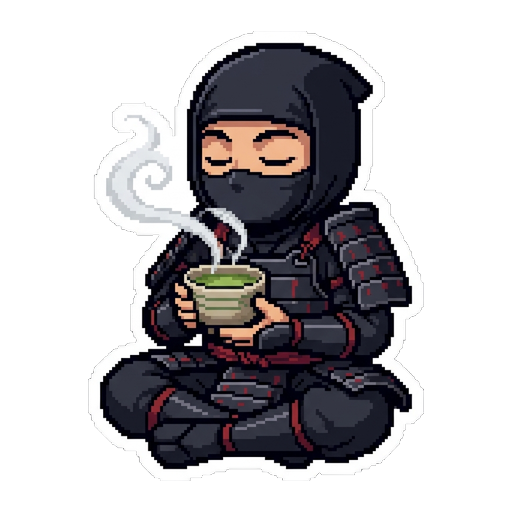
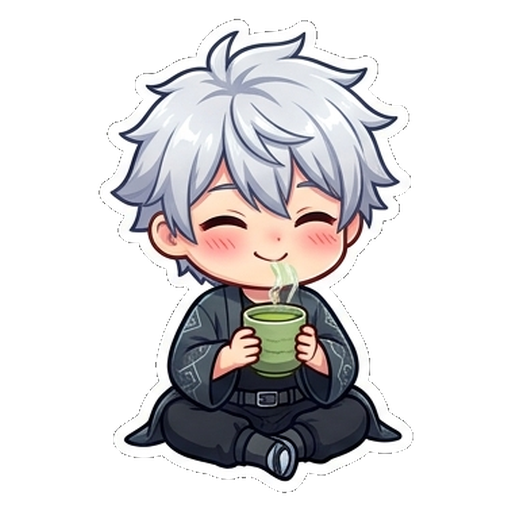
feat(stickers): 28-piece anime twins collection (white-haired boy twin & kunoichi girl) with 14 diverse emotions

diff --git a/src/services/chatBotServisi.js b/src/services/chatBotServisi.js
@@ -25,15 +25,23 @@ const __filename = fileURLToPath(import.meta.url);
 const __dirname = path.dirname(__filename);
 const STICKERS_DIR = path.join(__dirname, '../../assets/stickers');
 const KUNOICHI_DIR = path.join(STICKERS_DIR, 'kunoichi');
+const BOY_DIR = path.join(STICKERS_DIR, 'boy');
 
 const STICKER_DOSYALARI_ERKEK = {
-  savas: path.join(STICKERS_DIR, 'kage_savas.png'),
-  cay: path.join(STICKERS_DIR, 'kage_cay.png'),
-  ofke: path.join(STICKERS_DIR, 'kage_ofke.png'),
-  zafer: path.join(STICKERS_DIR, 'kage_zafer.png'),
-  para: path.join(STICKERS_DIR, 'kage_para.png'),
-  sevgi: path.join(STICKERS_DIR, 'kage_sevgi.png'),
-  dusunce: path.join(STICKERS_DIR, 'kage_dusunce.png')
+  savas: path.join(BOY_DIR, 'kage_savas.png'),
+  cay: path.join(BOY_DIR, 'kage_cay.png'),
+  ofke: path.join(BOY_DIR, 'kage_ofke.png'),
+  zafer: path.join(BOY_DIR, 'kage_zafer.png'),
+  para: path.join(BOY_DIR, 'kage_para.png'),
+  sevgi: path.join(BOY_DIR, 'kage_sevgi.png'),
+  dusunce: path.join(BOY_DIR, 'kage_dusunce.png'),
+  uyku: path.join(BOY_DIR, 'kage_uyku.png'),
+  yemek: path.join(BOY_DIR, 'kage_yemek.png'),
+  sok: path.join(BOY_DIR, 'kage_sok.png'),
+  aglama: path.join(BOY_DIR, 'kage_aglama.png'),
+  selam: path.join(BOY_DIR, 'kage_selam.png'),
+  oyun: path.join(BOY_DIR, 'kage_oyun.png'),
+  utanma: path.join(BOY_DIR, 'kage_utanma.png')
 };
 
 const STICKER_DOSYALARI_KUNOICHI = {
@@ -43,7 +51,14 @@ const STICKER_DOSYALARI_KUNOICHI = {
   zafer: path.join(KUNOICHI_DIR, 'kage_zafer.png'),
   para: path.join(KUNOICHI_DIR, 'kage_para.png'),
   sevgi: path.join(KUNOICHI_DIR, 'kage_sevgi.png'),
-  dusunce: path.join(KUNOICHI_DIR, 'kage_dusunce.png')
+  dusunce: path.join(KUNOICHI_DIR, 'kage_dusunce.png'),
+  uyku: path.join(KUNOICHI_DIR, 'kage_uyku.png'),
+  yemek: path.join(KUNOICHI_DIR, 'kage_yemek.png'),
+  sok: path.join(KUNOICHI_DIR, 'kage_sok.png'),
+  aglama: path.join(KUNOICHI_DIR, 'kage_aglama.png'),
+  selam: path.join(KUNOICHI_DIR, 'kage_selam.png'),
+  oyun: path.join(KUNOICHI_DIR, 'kage_oyun.png'),
+  utanma: path.join(KUNOICHI_DIR, 'kage_utanma.png')
 };
 
 // ==========================================
@@ -358,7 +373,7 @@ GÖREV VE KURALLAR:
 5. Kullanıcı kendisiyle ilgili yeni bir kişisel bilgi verirse (adı, hissi, hobisi, favori mangası vb.), yanıtının EN SONUNA şunu ekle (kullanıcıya gösterilmeyecek, sisteme işlenecek):
 [ÖĞRENİLDİ: <kullanıcı hakkında kalıcı 1 cümlelik gerçek>]
 6. Bu konuşmadaki ruh haline en uygun duyguyu seç ve EN SONA şu etiketi ekle:
-[DUYGU: <savas|cay|ofke|zafer|para|sevgi|dusunce>]
+[DUYGU: <savas|cay|ofke|zafer|para|sevgi|dusunce|uyku|yemek|sok|aglama|selam|oyun|utanma>]
 7. Yanıtın 1-3 paragraf arasında akıcı, doğal ve tatmin edici olsun.`;
 
   // Konuşma geçmişini yükle
@@ -386,7 +401,7 @@ GÖREV VE KURALLAR:
     let ogrenilen = null;
 
     // Duygu etiketini yakala
-    const duyguMatch = hamMetin.match(/\[DUYGU:\s*(savas|cay|ofke|zafer|para|sevgi|dusunce)\]/i);
+    const duyguMatch = hamMetin.match(/\[DUYGU:\s*(savas|cay|ofke|zafer|para|sevgi|dusunce|uyku|yemek|sok|aglama|selam|oyun|utanma)\]/i);
     if (duyguMatch) {
       secilenDuygu = duyguMatch[1].toLowerCase();
     }
@@ -533,7 +548,43 @@ export async function chatBotYanitla(mesajMetni, user, guild = null, member = nu
       baslik = isFemale ? '👑 KUNOICHI PİKSEL ÇIKARTMASI • KUNOICHI ZAFERİ' : '👑 KAGE PİKSEL ÇIKARTMASI • ŞOGUN ZAFERİ';
       aciklama = isFemale
         ? `Altın kanzashi çiçeğimiz saçımızda, zafer katanamızın ucunda! Bu kalede sadece en güçlü kunoichiler parlar. 🌸👑`
-        : `Şogun tacı başımızda, zafer katanamızın ucunda! Bu kalede sadece en güçlüler ayakta kalır.`;
+        : `Zafer bizim kılıç kardeşim! Bu kalede sadece en azimli olanlar ayakta kalır. 👑`;
+    } else if (metin.includes('yemek') || metin.includes('ramen') || metin.includes('acıktım') || metin.includes('lezzetli')) {
+      duygu = 'yemek';
+      baslik = isFemale ? '🍜 KUNOICHI PİKSEL ÇIKARTMASI • SICAK RAMEN ZİYAFETİ' : '🍜 KAGE PİKSEL ÇIKARTMASI • SICAK RAMEN ZİYAFETİ';
+      aciklama = isFemale
+        ? `Dumanı tüten sıcacık bir kase ramen ve leziz soya soslu yumurta! 🍜🌸 Yanında matcha çayıyla ziyafet vakti tatlı kunoichi **${userName}**!`
+        : `Dumanı tüten sıcacık bir kase ramen! 🍜 Çubukları hazırla **${userName}**, kılıç bileyenlerin karnı tok olmalı!`;
+    } else if (metin.includes('uyku') || metin.includes('uyu') || metin.includes('yorgun') || metin.includes('geceler')) {
+      duygu = 'uyku';
+      baslik = isFemale ? '💤 KUNOICHI PİKSEL ÇIKARTMASI • TATLI UYKULAR' : '💤 KAGE PİKSEL ÇIKARTMASI • HUZURLU DİNLENME';
+      aciklama = isFemale
+        ? `Göz kapakların ağırlaşıyor tatlı kunoichi **${userName}**... Yumuşacık yastığına sarıl, kılıcını başucuna koy ve tatlı rüyalar gör! 💤🌸`
+        : `Katanayı kınına sok ve dinlen **${userName}**... Yarın fethedilecek yeni zindanlar bizi bekler, iyi uykular! 💤`;
+    } else if (metin.includes('şok') || metin.includes('şaşır') || metin.includes('nası yani') || metin.includes('oha')) {
+      duygu = 'sok';
+      baslik = isFemale ? '😱 KUNOICHI PİKSEL ÇIKARTMASI • BÜYÜK ŞOK' : '😱 KAGE PİKSEL ÇIKARTMASI • BÜYÜK ŞOK';
+      aciklama = isFemale
+        ? `N-Nasıl yani?! Gözlerime inanamıyorum **${userName}**! Bu beklenmedik gelişme karşısında kalbim hızla çarptı! 😱🌸`
+        : `N-Nasıl yani?! Bu beklenmedik hamle gölgelerin efendisini bile hayrete düşürdü! 😱`;
+    } else if (metin.includes('ağla') || metin.includes('üzgün') || metin.includes('gözyaşı')) {
+      duygu = 'aglama';
+      baslik = isFemale ? '😭 KUNOICHI PİKSEL ÇIKARTMASI • DUYGUSAL ANLAR' : '😭 KAGE PİKSEL ÇIKARTMASI • DUYGUSAL ANLAR';
+      aciklama = isFemale
+        ? `Hıhık... Gözlerimden yaşlar sel oldu aktı... Sakın üzülme tatlı kunoichim **${userName}**, gölge kardeşlerin hep yanında! 😭🌸`
+        : `Gözlerim doldu be samuray **${userName}**... Ama samuraylar ağlamaz derler, bu sadece kiraz çiçeği tozu! 😭`;
+    } else if (metin.includes('selam') || metin.includes('merhaba') || metin.includes('günaydın') || metin.includes('yo')) {
+      duygu = 'selam';
+      baslik = isFemale ? '👋 KUNOICHI PİKSEL ÇIKARTMASI • NEŞELİ SELAM' : '👋 KAGE PİKSEL ÇIKARTMASI • DOSTÇA SELAM';
+      aciklama = isFemale
+        ? `Konnichiwaaa! Neşeyle el sallıyorum tatlı kunoichi **${userName}**, kaleme hoş sefalar getirdin! 👋🌸`
+        : `Yo! Selamlar kılıç kardeşim **${userName}**, Kage Kalesi'ne hoş geldin! 👋`;
+    } else if (metin.includes('oyun') || metin.includes('game') || metin.includes('gamer')) {
+      duygu = 'oyun';
+      baslik = isFemale ? '🎮 KUNOICHI PİKSEL ÇIKARTMASI • GAMER MODU' : '🎮 KAGE PİKSEL ÇIKARTMASI • GAMER MODU';
+      aciklama = isFemale
+        ? `Kulaklıkları taktım, oyun kolunu elime aldım! Zindan bossunu tek hamlede indirmeye hazır mısın **${userName}**? 🎮🌸`
+        : `Kulaklıkları taktım, konsolu açtım! Oyunda kimse elimden kurtulamaz kılıç kardeşim **${userName}**! 🎮`;
     } else {
       duygu = 'cay';
       baslik = isFemale ? '🍵 KUNOICHI PİKSEL ÇIKARTMASI • SAKİN ÇAY MOLASI' : '🍵 KAGE PİKSEL ÇIKARTMASI • SAKİN ÇAY MOLASI';

diff --git a/src/services/duyguServisi.js b/src/services/duyguServisi.js
@@ -7,19 +7,24 @@ const STICKER_HARITASI = {
   gurur: 'zafer',
   sevgi: 'sevgi',
   minnet: 'sevgi',
-  uzuntu: 'dusunce',
-  yalnizlik: 'dusunce',
+  uzuntu: 'aglama',
+  aglama: 'aglama',
+  yalnizlik: 'aglama',
   endise: 'dusunce',
-  korku: 'dusunce',
+  korku: 'sok',
   merak: 'dusunce',
-  saskinlik: 'dusunce',
+  saskinlik: 'sok',
+  sok: 'sok',
   ofke: 'ofke',
-  sikinti: 'ofke',
+  sikinti: 'uyku',
+  uyku: 'uyku',
   sinir: 'ofke',
   rekabet: 'savas',
   eglence: 'cay',
   sakin: 'cay',
-  para: 'para'
+  para: 'para',
+  yemek: 'yemek',
+  selam: 'selam'
 };
 
 const TON_ONERISI = {
@@ -57,10 +62,13 @@ const KURALLAR = [
   ['heyecan', /\b(heyecan|inanilmaz|muthis|harika|efsane|bayildim|cok guzel|super|mukemmel|vay be|yasasin|yaasasin|helal)/, 2],
   ['sevinc', /\b(mutluyum|sevindim|cok sevindim|iyiyim|keyifli|keyfim yerinde|gulme|haha|ahaha|ehehe|:d|xd|lol|😂|🤣|😄|😁)/, 1],
   ['merak', /\b(nasil|neden|niye|nedir|ne demek|kim|hangi|kac|ne zaman|nerede|\?)/, 0],
-  ['saskinlik', /\b(sasirdim|inanamiyorum|gercekten mi|yok artik|ciddi misin|ne\?!|nasil yani|vay)/, 1],
+  ['saskinlik', /\b(sasirdim|inanamiyorum|gercekten mi|yok artik|ciddi misin|ne\?!|nasil yani|vay|oha|sok oldum)/, 1],
   ['rekabet', /\b(duello|dovus|kapisalim|meydan oku|yenerim|savas|kavga|zindan|boss|rakip)/, 1],
   ['eglence', /\b(saka|komik|gulduruyor|gulmekten|kahkaha|espri|eglenc|bomba)/, 1],
-  ['para', /\b(ryo|para|zengin|fakir|bahis|kumar|market|bakiye|maas|fiyat)/, 1]
+  ['para', /\b(ryo|para|zengin|fakir|bahis|kumar|market|bakiye|maas|fiyat)/, 1],
+  ['uyku', /\b(uyku|uykum|uyuyacagim|yorgunum|yattim|iyi geceler|uyumak|esniyorum|pestilim cikti|dinleniyorum)/, 2],
+  ['yemek', /\b(aciktim|yemek|ramen|makarna|pizza|corba|doydum|karnim acikti|afiyet|atistirmalik|lezzetli)/, 2],
+  ['selam', /\b(gunaydin|iyi aksamlar|selam|merhaba|naber|selamlar|hey|yo\b|hos geldin)/, 1]
 ];
 
 const OLUMSUZLAR = ['ofke', 'uzuntu', 'yalnizlik', 'endise', 'korku', 'sikinti'];
